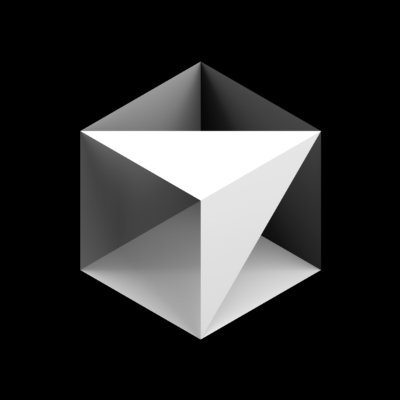
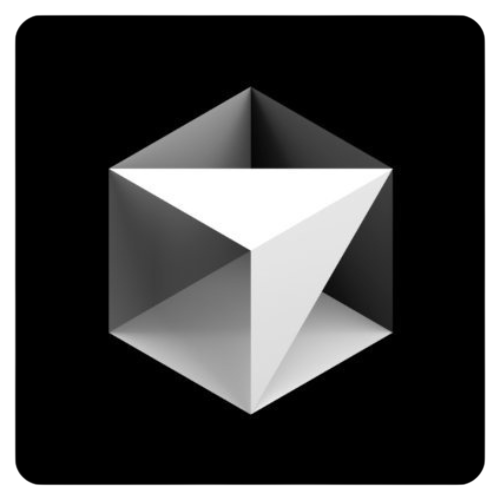
i think we are done with it

diff --git a/cursor-clone/index.html b/cursor-clone/index.html
@@ -1,12 +1,14 @@
+<!-- Note i love to add commnets in my code for better understanding of others and myself, so don't consider it as AI written.-->
+
 <!DOCTYPE html>
 <html lang="en">
 
 <head>
   <meta charset="UTF-8">
   <meta name="viewport" content="width=device-width, initial-scale=1.0">
-  <title>Cursor - The AI Code Editor</title>
+  <title>Cursor</title>
   <link rel="stylesheet" href="styles.css">
-  <link rel="shortcut icon" href="assets/Icon.jpeg" type="image/x-icon">
+  <link rel="shortcut icon" href="assets/icon.jpeg" type="image/x-icon">
 </head>
 
 <body>
@@ -100,7 +102,7 @@
     </div>
   </section>
 
-  <!-- Feature 1: Agent -->
+  <!-- Features Section -->
   <section class="feature-section">
     <div class="feature-image">
       <img src="assets/hero1.png" alt="AI Agents Feature">
@@ -113,6 +115,7 @@
     </div>
   </section>
 
+    <!-- Testimonials Section -->
   <section class="testimonials">
     <div class="testimonials-container">
       <h2 class="testimonials-title">The new way to build software.</h2>
@@ -190,6 +193,7 @@
     </div>
   </section>
 
+  <!-- Frontier Section -->
   <section class="frontier">
     <div class="frontier-container">
       <h2 class="frontier-title">Stay on the frontier</h2>
@@ -228,7 +232,7 @@
     </div>
   </section>
 
-  <!-- Put the Changelog Section Here -->
+  <!--Changelog Section -->
   <section class="changelog" id="changelog">
     <div class="changelog-container">
       <h2 class="changelog-title">Changelog</h2>
@@ -264,9 +268,9 @@
     </div>
   </section>
 
-  <!-- this section looks same as hero section but with different text and image so i use same classes -->
-
-  <section class="hero">
+<!-- <--Join the Team Section /-->
+<!-- this section looks same as hero section but with different text and image so i use same classes -->
+  <section class="hero" style="padding-top: 12PX;">
     <div class="hero-content">
       <h1>Cursor is an applied team focused <br> on building the future of coding.</h1>
       <a href="#download" class="btn-download-hero">
@@ -371,5 +375,4 @@
     </div>
   </footer>
 </body>
-
 </html>

diff --git a/cursor-clone/styles.css b/cursor-clone/styles.css
@@ -6,11 +6,13 @@
   color: #eee2e2;
   margin-right: 16px;
 }
+
 .logo {
   display: flex;
   align-items: center;
   text-decoration: none;
 }
+
 /* Reset and Base Styles */
 * {
   margin: 0;
@@ -71,7 +73,6 @@ a {
   display: flex;
   align-items: center;
   height: 50px;
-  /* position: relative; */
 }
 
 .nav-left {
@@ -80,7 +81,6 @@ a {
   gap: 48px;
   padding-left: 48px;
 }
-
 
 .nav-links {
   display: flex;
@@ -161,7 +161,7 @@ a {
   flex-direction: column;
   align-items: flex-start;
   text-align: left;
-  
+
 }
 
 .hero h1 {
@@ -213,7 +213,7 @@ a {
 
 /* Trust Section */
 .trust {
- margin-bottom: 60px;
+  margin-bottom: 60px;
   text-align: center;
   background: var(--bg-primary);
 }
@@ -249,7 +249,7 @@ a {
 .logo-item {
   background: #181611;
   border-radius: 4px;
-  box-shadow: 0 2px 8px 0 rgba(0,0,0,0.10);
+  box-shadow: 0 2px 8px 0 rgba(0, 0, 0, 0.10);
   padding: 32px;
   min-width: 100px;
   min-height: 100px;
@@ -263,11 +263,14 @@ a {
   font-weight: 600;
   letter-spacing: 0.5px;
 }
+
 .logo-item:hover {
-  box-shadow: 0 4px 16px 0 rgba(0,0,0,0.18);
+  box-shadow: 0 4px 16px 0 rgba(0, 0, 0, 0.18);
   transform: translateY(-4px) scale(1.03);
 }
-.logo-item img, .logo-item svg {
+
+.logo-item img,
+.logo-item svg {
   max-width: 100px;
   max-height: 50px;
   width: auto;
@@ -276,6 +279,7 @@ a {
   margin: 0 auto;
   filter: brightness(0) invert(1);
 }
+
 .feature-section {
   min-height: 100vh;
   display: flex;
@@ -297,7 +301,8 @@ a {
   margin-bottom: 48px;
   padding-left: 48px;
   padding-right: 48px;
-} 
+}
+
 .feature-image img {
   width: 100%;
   height: 100%;
@@ -669,7 +674,7 @@ a {
   color: #ffffff;
 }
 
-.footer-column-connect a span{
+.footer-column-connect a span {
   display: none;
 }
 
@@ -731,15 +736,12 @@ a {
   padding: 0 14px;
 }
 
-
-
-
-/* Smooth scrolling */
+/* This is used for - Smooth scrolling */
 html {
   scroll-behavior: smooth;
 }
 
-/* Selection color */
+/* this is used when we select some text - Selection color */
 ::selection {
   background: rgba(80, 94, 85, 0.3);
   color: var(--text-primary);

diff --git a/cursor-clone/readme.md b/cursor-clone/readme.md
@@ -1,0 +1,77 @@
+# Cursor UI Clone (Web Dev Cohort 2026)
+
+This project is a **desktop‑only HTML/CSS clone** of the Cursor landing page UI created for the Web Dev Cohort 2026 assignment. The goal was to replicate the overall layout, spacing, typography, and visual hierarchy using **only HTML and CSS** (no JavaScript, no Tailwind, no animations).
+
+
+## What’s Inside
+
+- `index.html` — semantic structure of the page and all required sections.
+- `styles.css` — complete styling, layout, colors, and typography.
+- `assets/` — local images, icons, and screenshots used in the mockup.
+
+## Sections Implemented (Assignment Mapping)
+
+1. **Top Navigation Bar**  
+   - Implemented as a fixed `<nav>` with a left logo area, center nav links, and right actions.  
+   - Styled with a dark background, subtle blur, and aligned spacing.  
+   - See: `index.html` and `.navbar`, `.nav-container`, `.nav-left`, `.nav-links`, `.nav-right` in `styles.css`.
+
+2. **Hero Section**  
+   - Primary headline + CTA and a full‑width product screenshot.  
+   - Implemented using a two‑part `.hero` layout with `.hero-content` and `.hero-image`.  
+   - CTA uses `.btn-download-hero` for pill‑button styling.
+
+3. **Trusted By / Logos**  
+   - Horizontal row of brand logos in `.trust` with `.logos` and `.logo-item`.  
+   - Logos are placed in flex cards to match the original look and spacing.
+
+4. **Feature Sections (3 blocks)**  
+   - Implemented as three stacked feature images in `.feature-section`.  
+   - Each image is full‑width with rounded corners to mimic the Cursor layout.
+
+5. **Feature Cards Section**  
+   - Implemented as the “Stay on the frontier” grid.  
+   - `.frontier-grid` contains three cards with text + image split inside each card.
+
+6. **Testimonials**  
+   - `.testimonials` section includes a grid of quote cards with avatar, name, and role.  
+   - Follows the original multi‑card layout with consistent spacing and borders.
+
+7. **Use Cases / Stories**  
+   - Implemented as “Recent highlights” in `.highlights`.  
+   - Cards use strong typography and metadata rows for article‑style content.
+
+8. **Changelog / Updates**  
+   - Implemented in `.changelog` with date pills, version tags, and short headings.  
+   - Uses a 4‑column grid to match the original update layout.
+
+9. **Team / About**  
+   - The “Join the Team” section reuses the `.hero` pattern (headline + CTA + image).  
+   - Keeps visual consistency with the main hero for brand feel.
+
+10. **Final CTA**  
+   - Implemented in `.cta-section` with a single headline and CTA button.
+
+11. **Footer**  
+   - Multi‑column footer grid with link groups and a bottom meta row.  
+   - Matches original hierarchy and spacing using `.footer-columns` and `.footer-bottom`.
+
+## Styling & Design Notes
+
+- **Color palette** uses dark browns and warm grays to match Cursor’s theme.  
+  Defined in `:root` as CSS variables for consistency.
+- **Typography** uses a local font (`Cursor Regular`) loaded via `@font-face`.  
+  Fallback is `sans-serif`.
+- **Spacing & layout** rely on flex and CSS grid for clean alignment.  
+  No responsive rules were added per assignment constraints.
+- **No JavaScript** was used. All behavior is static.
+
+## How to View
+
+- **Live Demo:** 🌐 [View live site](https://live.site)
+- Open `index.html` directly in a browser.  
+- This is a desktop‑only layout as requested by the assignment.
+
+---
+
+Build by Suprabhat (gulabi dil)
